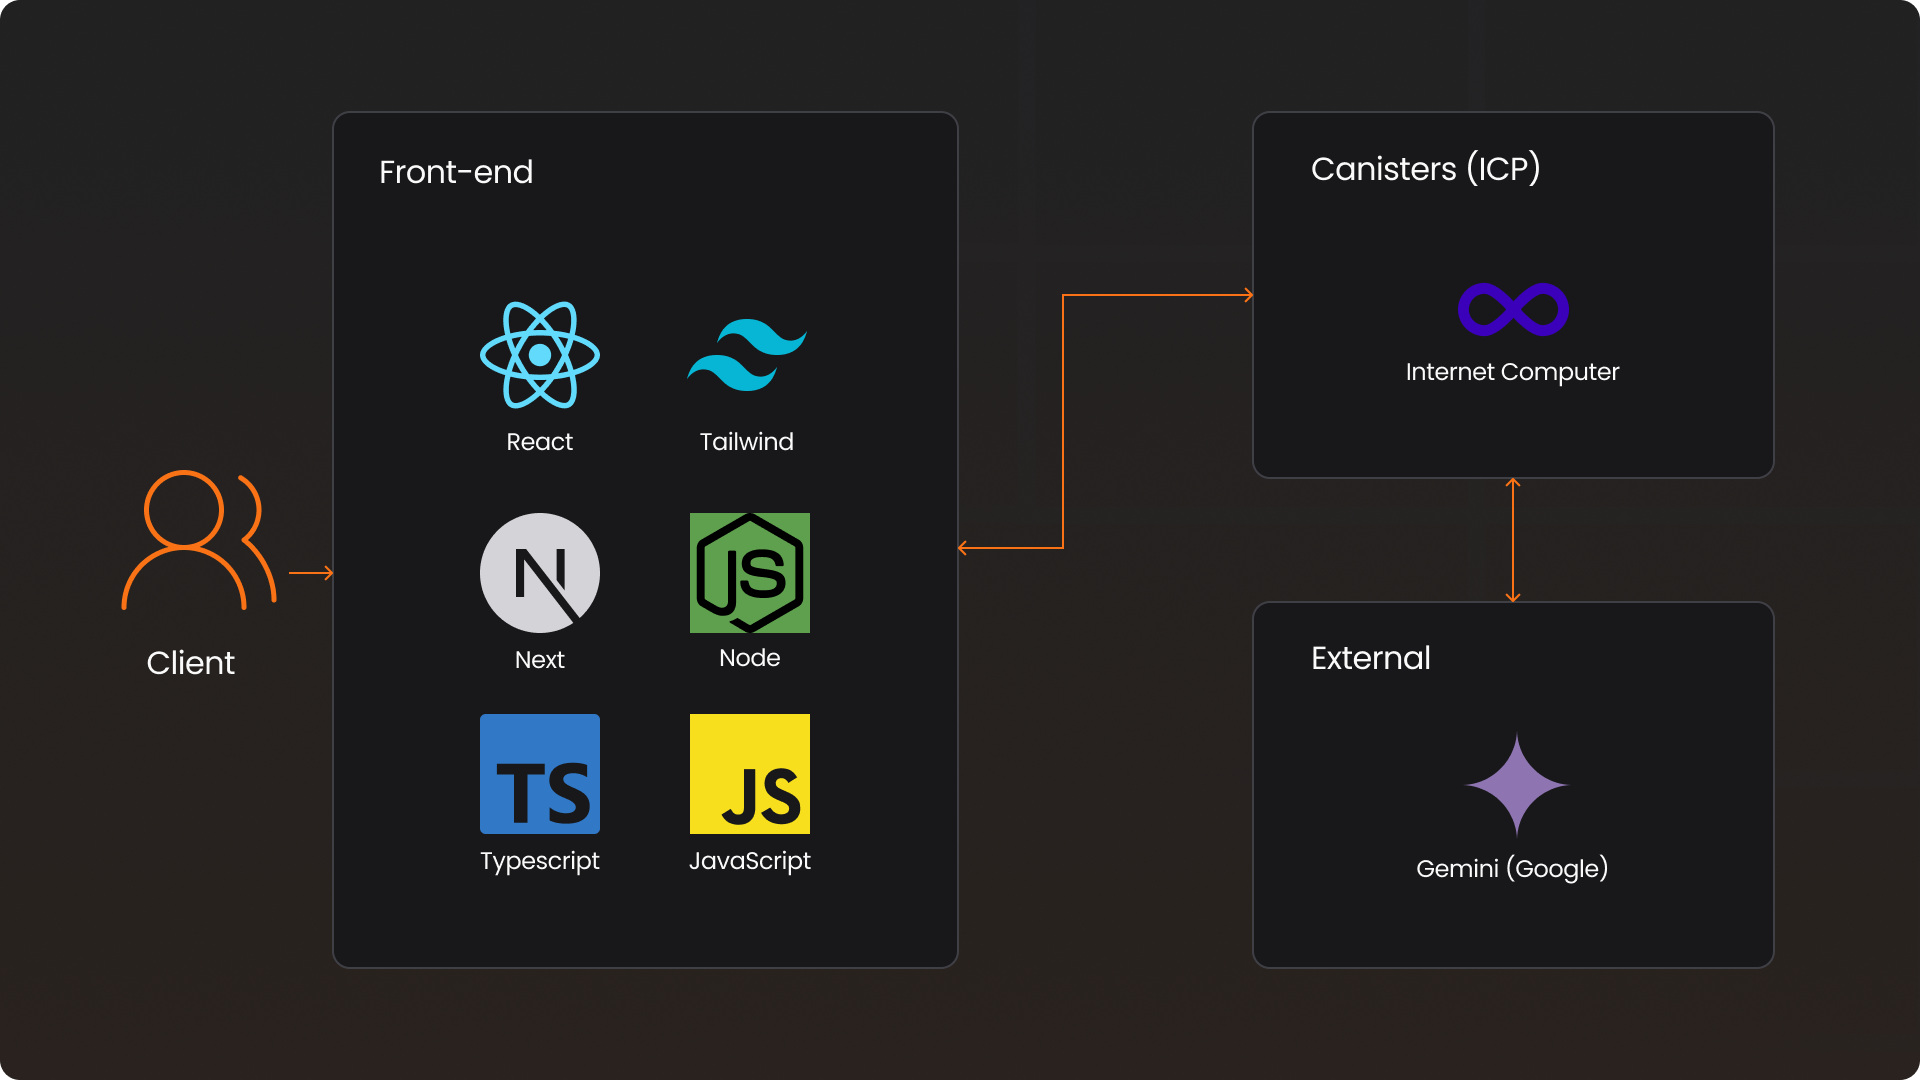
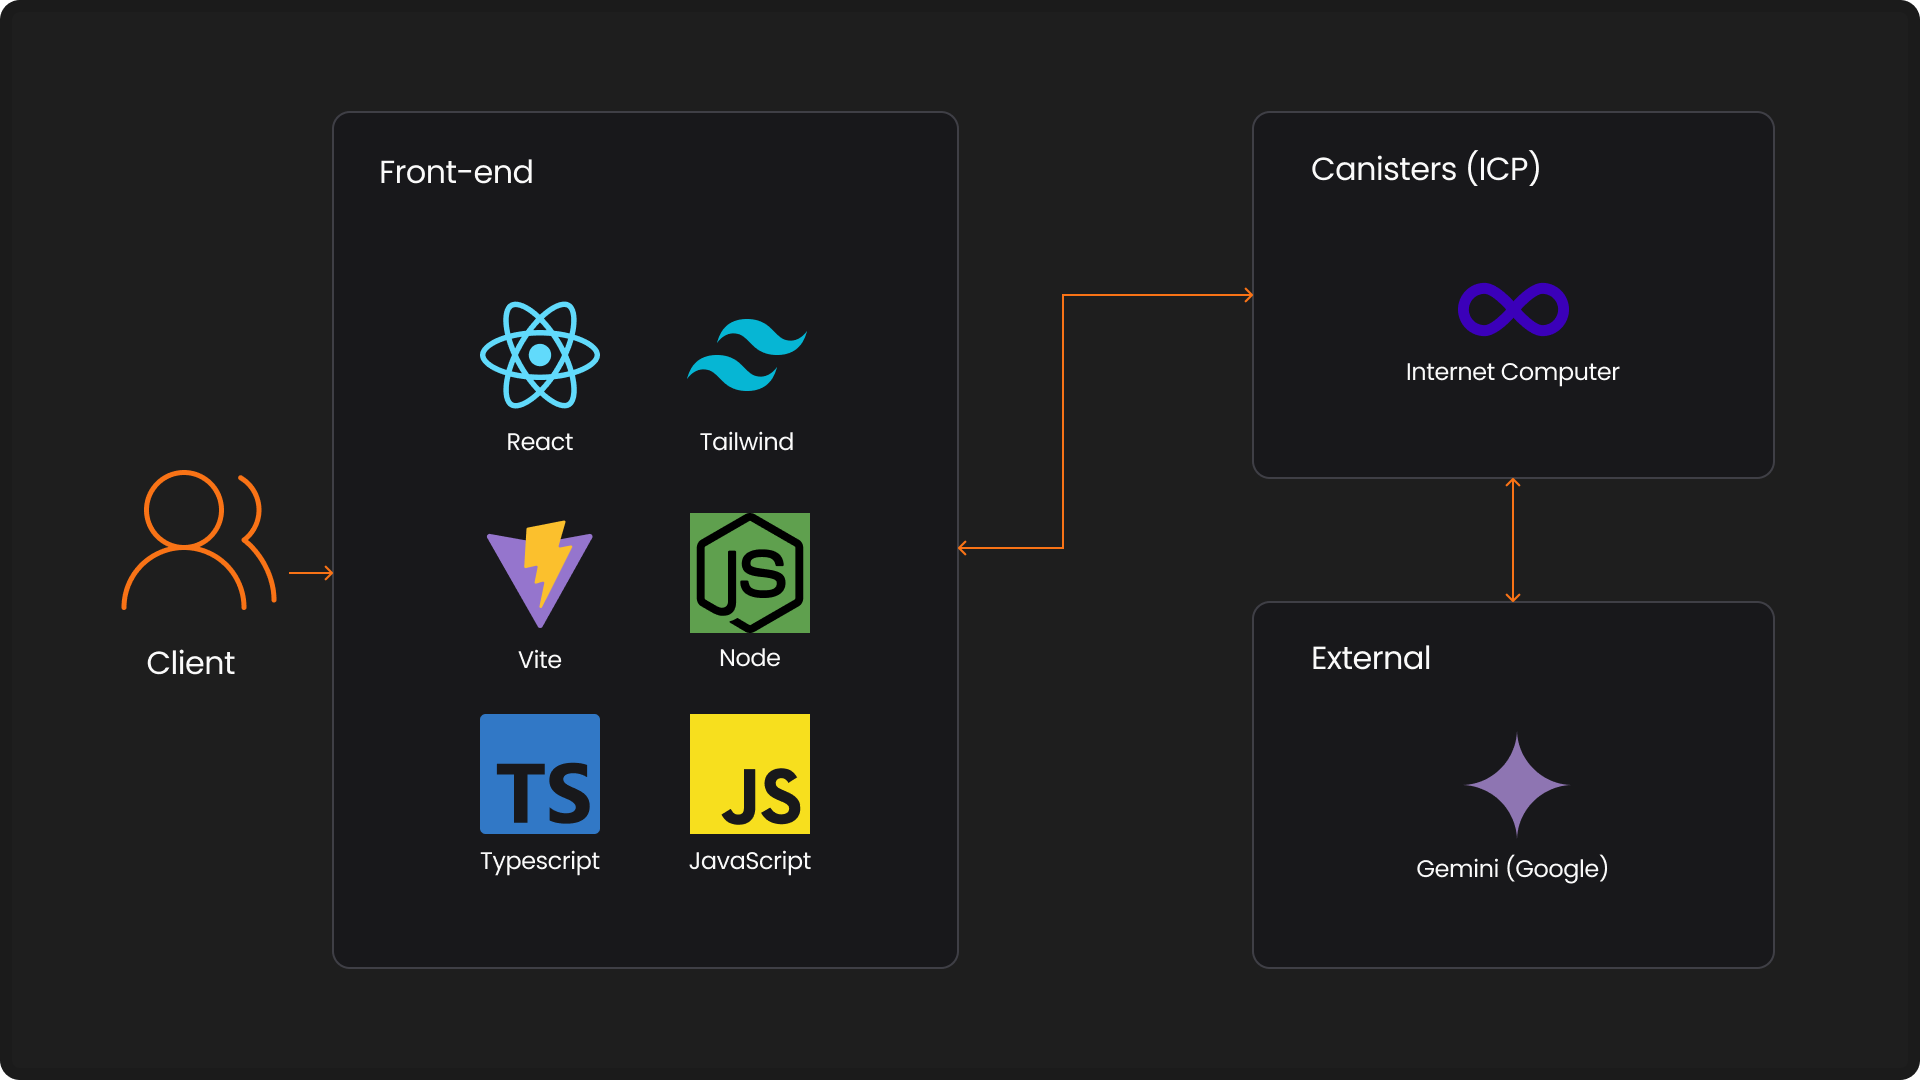
docs: completing the documentation in the MVP section and conclusions and future work

Changed region(s): [[0.25, 0.4583, 0.3125, 0.6111]]

diff --git a/documents/wad.md b/documents/wad.md
@@ -102,7 +102,7 @@ In this scenario, Porter's Five Forces analysis is applied—an essential tool f
 
 <div align="center">
 
-<sub>Figure X - Porter's 5 Forces Model</sub>
+<sub>Figure 1 - Porter's 5 Forces Model</sub>
 
 <img src="./assets/five-forces.png" width="100%">
 
@@ -131,7 +131,7 @@ The SWOT analysis is a widely used tool for planning and mapping out various sol
 
 <div align="center">
 
-<sub>Figure X - Swot Analysis Model</sub>
+<sub>Figure 2 - Swot Analysis Model</sub>
 
 <img src="./assets/swot-analysis.png" width="100%">
 
@@ -223,7 +223,7 @@ The Value Proposition Canvas is a strategic tool used by various companies with 
 
 <div align="center">
 
-<sub>Figure X - Value Proposition Canvas</sub>
+<sub>Figure 3 - Value Proposition Canvas</sub>
 
 <img src="./assets/canvas-value.png" width="100%">
 
@@ -290,10 +290,6 @@ The analysis conducted through the Kaizen Value Proposition Canvas demonstrates 
 
 Therefore, it is worth emphasizing that the solution addresses a real and pressing issue: the disconnect between knowledge acquired through non-traditional means and its validation. The centralization of learning data, personalization of the study process, and the possibility of monetizing and sharing educational journeys add direct value to the end user. Kaizen does not merely rely on emerging technologies; it builds an ecosystem in which knowledge is treated as a reputational asset—traceable, shareable, and, most importantly, rewardable.
 
-### 2.1.5. Project Risk Matrix
-
-[FILL IN - Place here the risk matrix]
-
 ## 2.2. Personas
 
 Representing specific individuals, personas are semi-fictional profiles built based on real data and observations about the target audience. Their main function is to facilitate the understanding of users' needs, behaviors, and motivations, allowing for more targeted and effective solution development.
@@ -302,7 +298,7 @@ Below are three personas developed specifically for this project to guide decisi
 
 <div align="center">
 
-<sub>Figure X - Persona 1</sub>
+<sub>Figure 4 - Persona 1</sub>
 
 <img src="./assets/persona-clara.png" width="100%">
 
@@ -314,7 +310,7 @@ She represents an ambitious young student from a peripheral community who sees t
 
 <div align="center">
 
-<sub>Figure X - Persona 2</sub>
+<sub>Figure 5 - Persona 2</sub>
 
 <img src="./assets/persona-daniel.png" width="100%">
 
@@ -326,7 +322,7 @@ He personifies the modern self-taught developer who stands out in the Web3 ecosy
 
 <div align="center">
 
-<sub>Figure X - Persona 3</sub>
+<sub>Figure 6 - Persona 3</sub>
 
 <img src="./assets/persona-renata.png" width="100%">
 
@@ -340,7 +336,23 @@ She represents the progressive HR professional working in a constantly changing 
 
 ## 3.1. Architecture Diagram
 
-[FILL IN - Place here the architecture diagram]
+The presented architecture diagram describes the application's technological structure, highlighting the separation between the front-end, back-end (via Internet Computer Canisters), and external integration layers.
+
+<div align="center">
+
+<sub>Figure 7 - Architecture diagram</sub>
+
+<img src="./assets/simple-architecture.png" width="100%">
+
+<sup>Source: Material produced by the authors (2025)</sup>
+
+</div>
+
+ The front-end uses modern frameworks and libraries such as React, Tailwind, Node.js, TypeScript, JavaScript, and Vite, ensuring a responsive, modular, and efficient interface for client interaction. This layer is responsible for mediating communication between the user and the services offered by the application. 
+ 
+ The back-end is represented by Canisters hosted on the Internet Computer (ICP), which enable decentralization, scalability, and security of the application's operations. Furthermore, there is external integration with Google's Gemini language model, which can be used to provide artificial intelligence-based features. 
+ 
+ This diagram is essential for visualizing the organization of components, facilitating understanding between developers and stakeholders, and guiding technical decisions throughout development.
 
 ## 3.2. Style Guide
 
@@ -352,7 +364,7 @@ The color palette is an essential element in the visual construction of the Kaiz
 
 <div align="center">
 
-<sub>Figure X - Colors</sub>
+<sub>Figure 8 - Colors</sub>
 
 <img src="./assets/colors.png" width="100%">
 
@@ -372,7 +384,7 @@ The typography used on the Kaizen platform was selected based on legibility, sim
 
 <div align="center">
 
-<sub>Figure X - Typography</sub>
+<sub>Figure 9 - Typography</sub>
 
 <img src="./assets/typography.png" width="100%">
 
@@ -391,7 +403,7 @@ The visual elements of the Kaizen platform were designed to communicate, symboli
 
 <div align="center">
 
-<sub>Figure X - Mascot</sub>
+<sub>Figure 10 - Mascot</sub>
 
 <img src="./assets/mascot.png" width="100%">
 
@@ -403,7 +415,7 @@ The platform's mascot, Kai, is an expressive and welcoming fox, presented in sev
 
 <div align="center">
 
-<sub>Figure X - Logo</sub>
+<sub>Figure 11 - Logo</sub>
 
 <img src="./assets/logo.png" width="100%">
 
@@ -429,7 +441,7 @@ Below are the prototyped screens, which illustrate the application's main functi
 
 <div align="center">
 
-<sub>Figure X - Home</sub>
+<sub>Figure 12 - Home</sub>
 
 <img src="./assets/screens/1.png" width="100%">
 
@@ -441,7 +453,7 @@ The home screen serves as the platform's central navigation point, offering user
 
 <div align="center">
 
-<sub>Figure X - Chat</sub>
+<sub>Figure 13 - Chat</sub>
 
 <img src="./assets/screens/2.png" width="100%">
 
@@ -453,7 +465,7 @@ This interface allows direct communication with the platform's artificial intell
 
 <div align="center">
 
-<sub>Figure X - Tracks</sub>
+<sub>Figure 14 - Tracks</sub>
 
 <img src="./assets/screens/3.png" width="100%">
 
@@ -465,7 +477,7 @@ The paths screen organizes and categorizes the content available on the platform
 
 <div align="center">
 
-<sub>Figure X - Tracks</sub>
+<sub>Figure 15 - Tracks</sub>
 
 <img src="./assets/screens/4.png" width="100%">
 
@@ -477,7 +489,7 @@ Modals provide an in-depth overview of a specific learning path, including its d
 
 <div align="center">
 
-<sub>Figure X - Practice and Proof of Learning</sub>
+<sub>Figure 16 - Practice and Proof of Learning</sub>
 
 <img src="./assets/screens/5.png" width="100%">
 
@@ -489,7 +501,7 @@ In the Practice section, users have access to features that help them review the
 
 <div align="center">
 
-<sub>Figure X - Discover</sub>
+<sub>Figure 17 - Discover</sub>
 
 <img src="./assets/screens/6.png" width="100%">
 
@@ -501,7 +513,7 @@ The Discover feature aims to expand learning possibilities by facilitating the e
 
 <div align="center">
 
-<sub>Figure X - Profile</sub>
+<sub>Figure 18 - Profile</sub>
 
 <img src="./assets/screens/7.png" width="100%">
 
@@ -515,7 +527,7 @@ Furthermore, users have access to their earned certifications, allowing them to 
 
 <div align="center">
 
-<sub>Figure X - Kai's store</sub>
+<sub>Figure 19 - Kai's store</sub>
 
 <img src="./assets/screens/8.png" width="100%">
 
@@ -527,7 +539,7 @@ Kai's store is a gamified interface where users can use platform tokens ($KOIN) 
 
 <div align="center">
 
-<sub>Figure X - settings and community</sub>
+<sub>Figure 20 - settings and community</sub>
 
 <img src="./assets/screens/9.png" width="100%">
 
@@ -539,25 +551,96 @@ The settings screen allows users to adjust their usage preferences, configure no
 
 The community screen aims to strengthen interactions between users, serving as a space for exchange and collaboration. Here, participants can post about their experiences on the platform, share reflections on the learning process, promote created paths, and interact with other members' content. This dynamic contributes to building a network of support and educational engagement, encouraging mutual recognition and collective development.
 
-
-## 3.4. Data Modeling (On-Chain)
-
-### 3.4.1. Smart Contracts Logic (On-Chain)
-
-**Certificate Contract (ERC-721 or ERC-1155 Standard):**
-Main Function:
-Description:
-Validation:
-**Token Contract (ERC-20 Standard):**
-Token Name:
-Main Functions:
-Reward Logic:
-
 # 4. Application Development
 
 ## 4.1. First Version of the Application (MVP)
 
-[FILL IN - Describe and illustrate here what was delivered in the MVP, such as Front-end functionalities and initial integrations.]
+The first version of the Kaizen application MVP has been completed, providing the essential structure of the system, focusing on validating the main usage flows and integrations between the backend and frontend. This initial delivery prioritized user experience, authentication, basic interaction features, and integration with the blockchain layer.
+
+#### Structure and implemented features
+
+In this initial version, the following functional components were delivered:
+
+- **Home page with navigation menu:** Clear interface, with quick access to the main areas of the system.
+- **User authentication system:** Implementation of login, logout, and identity management, integrating with the Motoko backend.
+- **User profile management:** Creation, viewing, and editing of profiles, including nicknames, bios, and roles.
+- **Community dashboard:** Screen for viewing community posts, promoting interaction and engagement among users.
+- **AI Chat (Kai):** Intelligent chat functionality, allowing users to initiate conversations with AI, save history, and dynamic responses.
+- **User Track Management and Display:** View created, in-progress, and completed tracks for each profile.
+
+#### Technical Development Process
+
+Development combined modern technologies, with a clear division between the React/Vite (TypeScript) frontend and the Motoko backend. Hooks and providers were created for authentication, user management, and integration of operations with Motoko canisters. The AI chat system uses asynchronous requests, contextual history, and interaction persistence.
+
+#### Screen Illustrations
+Some of the main screens implemented in this version are:
+
+<div align="center">
+
+<sub>Figure 21 - Home</sub>
+
+<img src="./assets/screens-aplication/home.png" width="100%">
+
+<sup>Source: Material produced by the authors (2025)</sup>
+
+</div>
+
+<div align="center">
+
+<sub>Figure 22 - Tracks</sub>
+
+<img src="./assets/screens-aplication/tracks.png" width="100%">
+
+<sup>Source: Material produced by the authors (2025)</sup>
+
+</div>
+
+<div align="center">
+
+<sub>Figure 23 - Chat</sub>
+
+<img src="./assets/screens-aplication/chat.png" width="100%">
+
+<sup>Source: Material produced by the authors (2025)</sup>
+
+</div>
+
+<div align="center">
+
+<sub>Figure 24 - Discover</sub>
+
+<img src="./assets/screens-aplication/discover.png" width="100%">
+
+<sup>Source: Material produced by the authors (2025)</sup>
+
+</div>
+
+<div align="center">
+
+<sub>Figure 25 - Practice</sub>
+
+<img src="./assets/screens-aplication/practice-1.png" width="100%">
+
+<sup>Source: Material produced by the authors (2025)</sup>
+
+</div>
+
+<div align="center">
+
+<sub>Figure 26 - Proof of Learning</sub>
+
+<img src="./assets/screens-aplication/proof of learning.png" width="100%">
+
+<sup>Source: Material produced by the authors (2025)</sup>
+
+</div>
+
+#### Challenges Faced
+
+Among the main challenges were the secure integration between the frontend and Motoko canisters, the modeling of the decentralized authentication flow, and the management of conversation status with AI, ensuring real-time updates to the interface and consistency of user data.
+
+
+This MVP version validates the essential pillars of the Kaizen platform, serving as a solid foundation for continuous evolution and the inclusion of new features in the next stages of the project.
 
 # 5. Market Study and Marketing Plan
 
@@ -621,7 +704,15 @@ Kaizen's promotion will focus on content marketing and community engagement. Art
 
 # 6. Conclusions and Future Work
 
-[FILL IN - Write how the web application solution achieved the objectives described in section 2 of this document. Indicate strengths and areas for improvement in general.]
+The Kaizen application has established itself as an innovative platform for learning and collectively building knowledge paths in a decentralized environment. By combining modern architecture, blockchain integration, and a focus on user experience, the project allows people to explore and share knowledge in an open, secure, and gamified way.
+
+With the advances achieved to date, Kaizen already offers essential features, such as modular content organization, assistive chat, user profiles, and progress tracking. However, the team recognizes the potential for expansion and improvement of the platform, aiming for ambitious goals for future versions.
+
+Among the main focuses of future development is the implementation of a tokenized rewards system, in which users will be rewarded for performing relevant actions on the platform—such as watching trails, completing stages, contributing content, and interacting socially. This incentive mechanism aims not only to increase engagement but also to value collaboration and active community participation.
+
+Furthermore, a decentralized governance system is planned, allowing users to participate in Kaizen's strategic and evolutionary decisions. Through voting mechanisms, proposals, and deliberations, the community will be able to directly influence the platform's direction, strengthening a sense of belonging and collective autonomy.
+
+These advances, combined with the constant pursuit of improvements in usability, accessibility, internationalization, and integration with new protocols, pave the way for Kaizen to become a benchmark in decentralized, collaborative, and future-oriented education. The commitment remains to building an open, democratic, and increasingly meaningful environment for all its users.
 
 # 7. References
 
